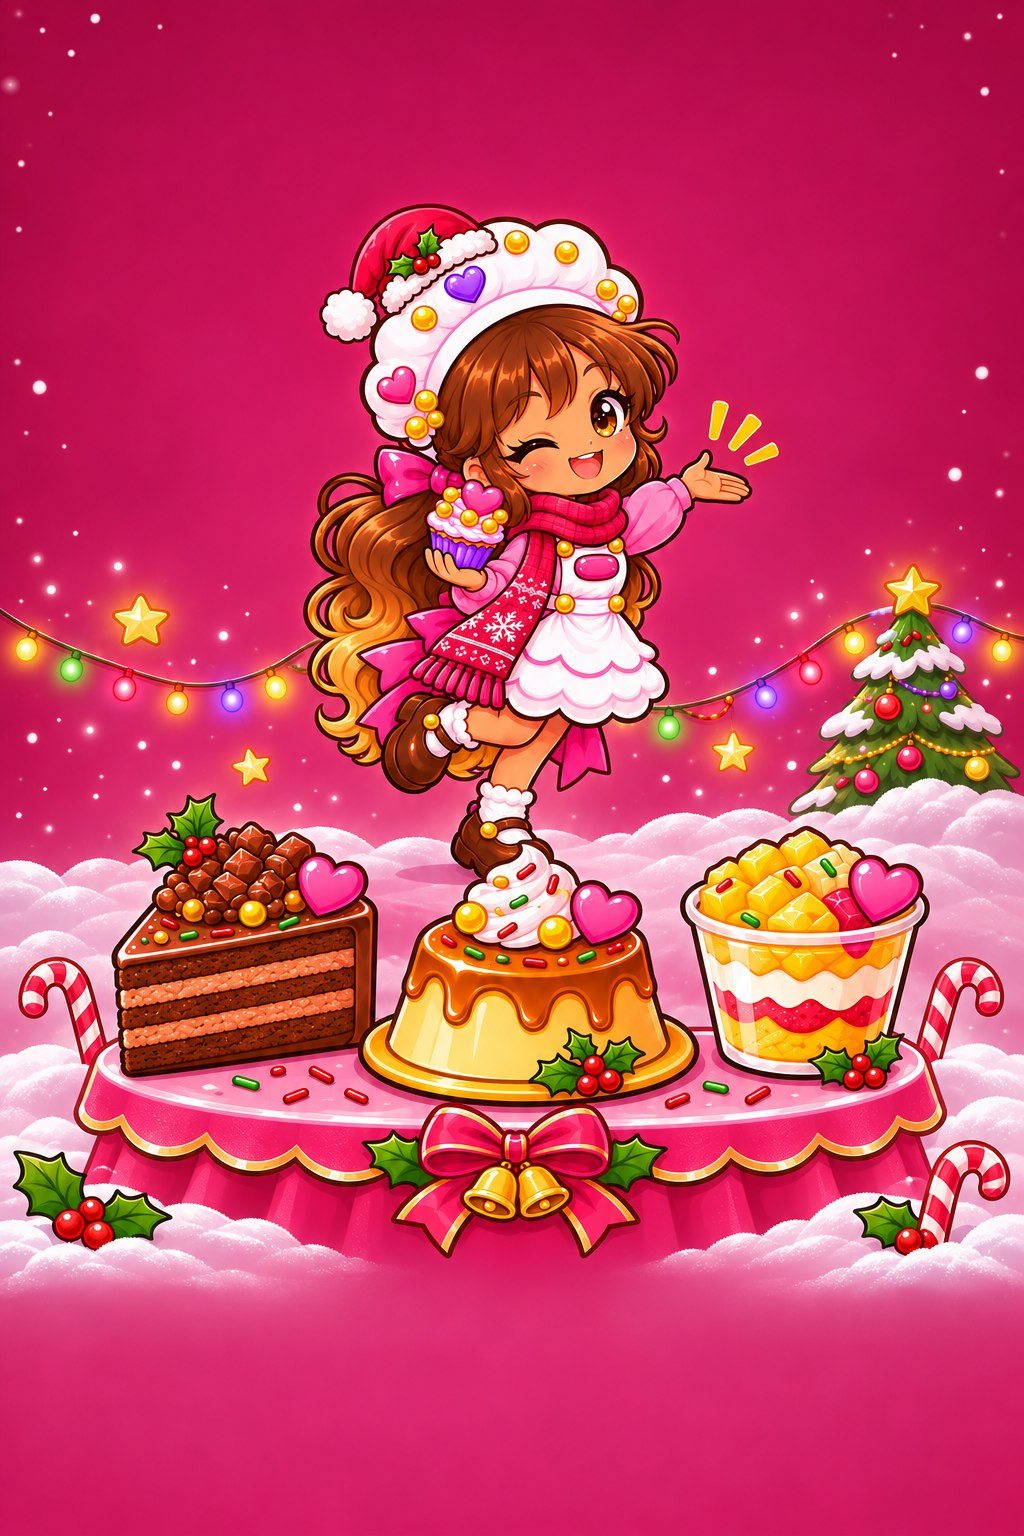
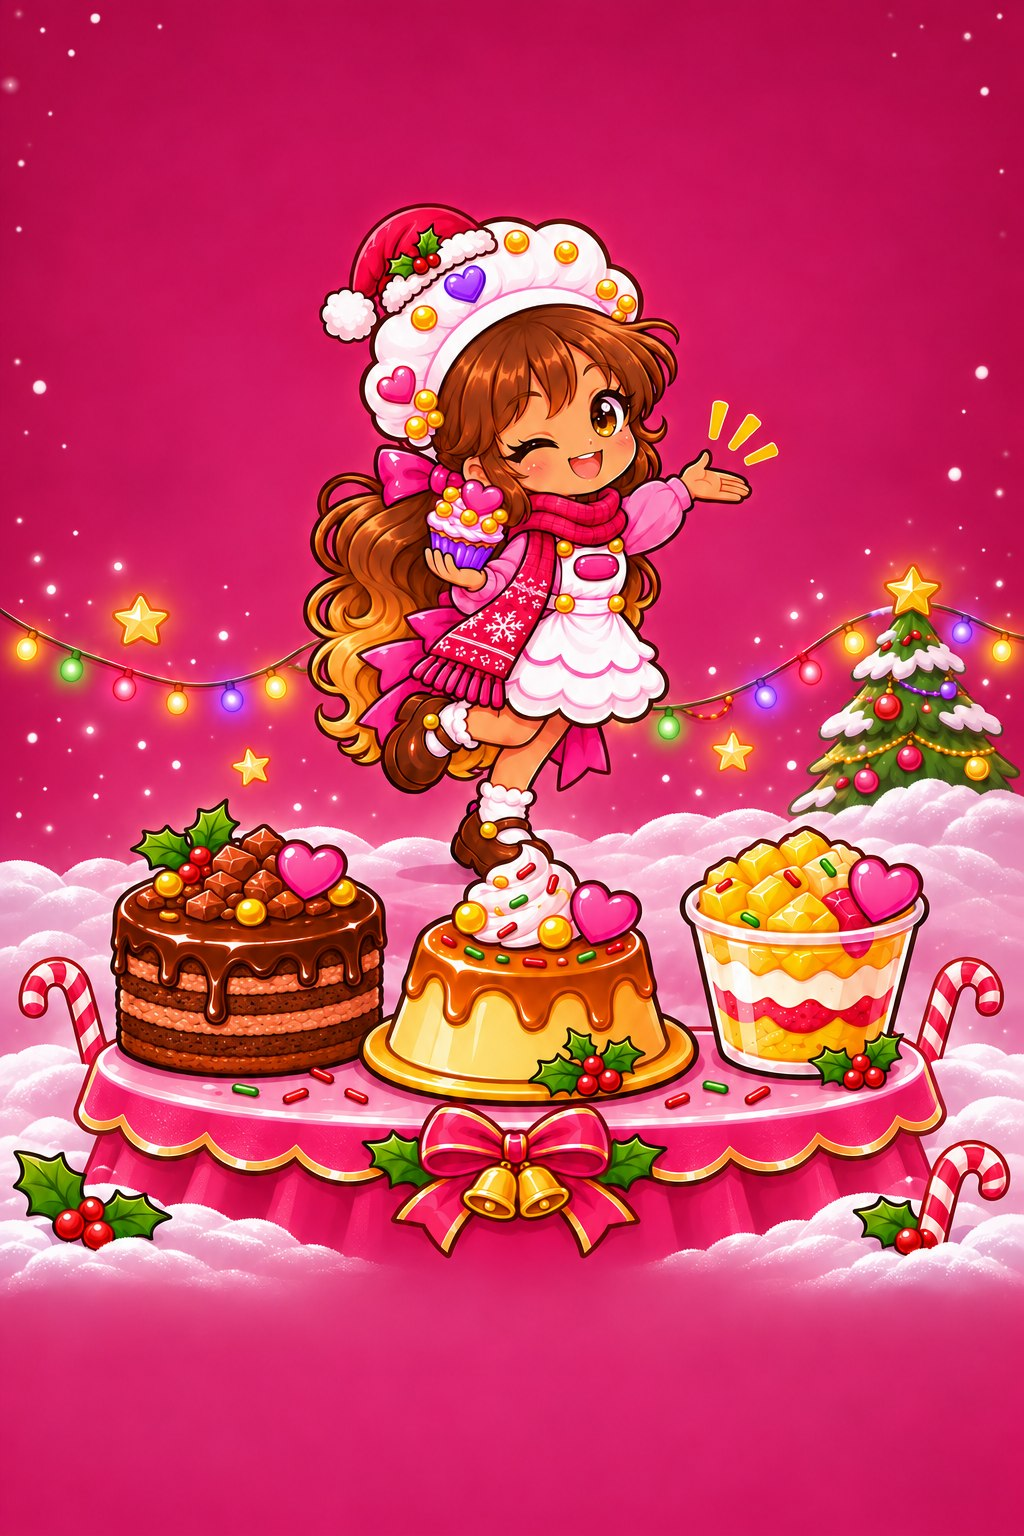
Pastel de chocolate entero en la publicidad y Dulce con los dos brazos (v1.22.0)
- Las ilustraciones de la torta (normal y navidena), del menu y de Navidad muestran un pastel redondo entero en lugar de la porcion triangular.
- Expresion 09 (guino con cupcake) redibujada con el brazo que le faltaba, saludando.

diff --git a/sw.js b/sw.js
@@ -2,7 +2,7 @@
    Guarda la app en el dispositivo para que abra al instante y funcione sin internet.
    IMPORTANTE: cada vez que cambies cualquier archivo y lo vuelvas a publicar, sube el número de VERSION
    para que los dispositivos descarguen la actualización. */
-const VERSION = 'dulza-v1.21.0';
+const VERSION = 'dulza-v1.22.0';
 const FONT_CACHE = 'dulza-fonts';
 const GPT = 'assets/brand/gpt/';
 const pad = (n) => String(n).padStart(2, '0');

diff --git a/js/core.js b/js/core.js
@@ -2,7 +2,7 @@
 (function () {
   'use strict';
   const D = (window.D = window.D || {});
-  D.version = '1.21.0'; // se sube junto con VERSION de sw.js (python .dev/version.py 1.7.0)
+  D.version = '1.22.0'; // se sube junto con VERSION de sw.js (python .dev/version.py 1.7.0)
 
   /* ---------- DOM ---------- */
   D.$ = (s, r = document) => r.querySelector(s);
